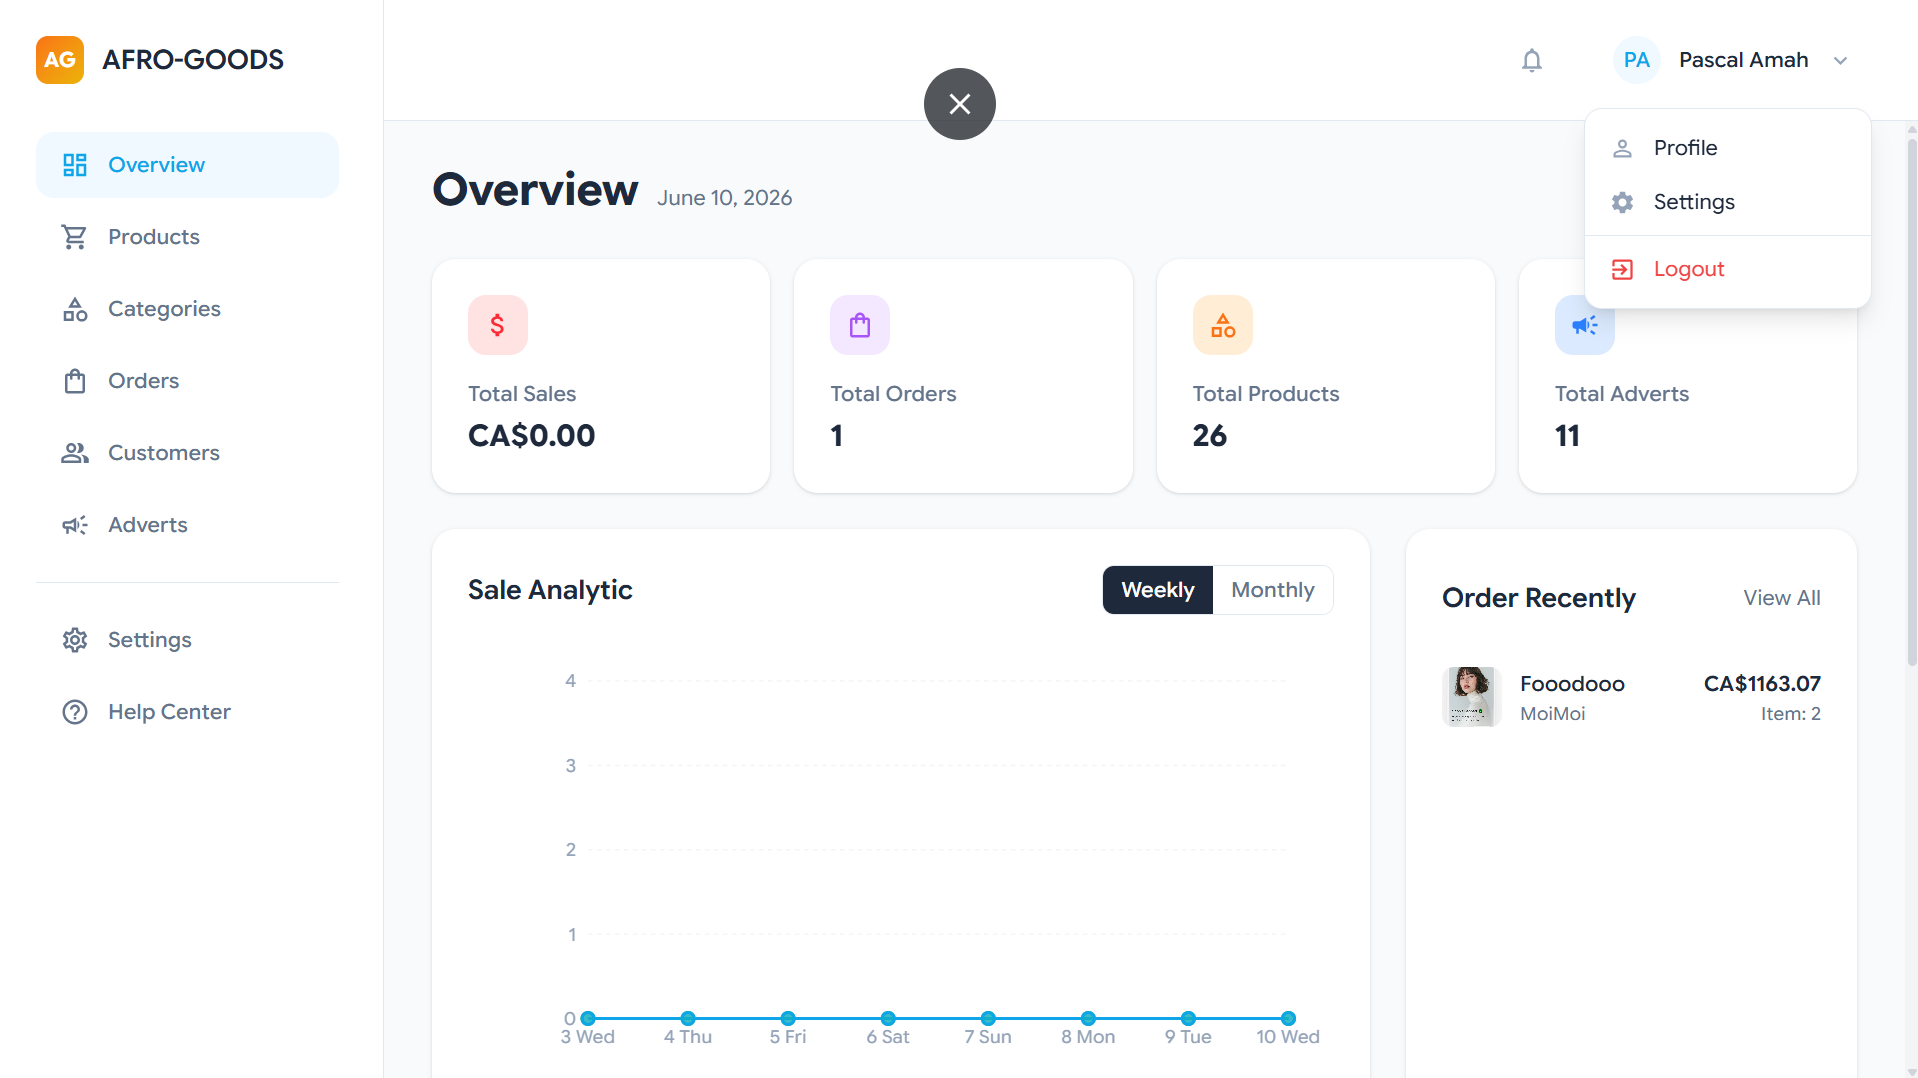
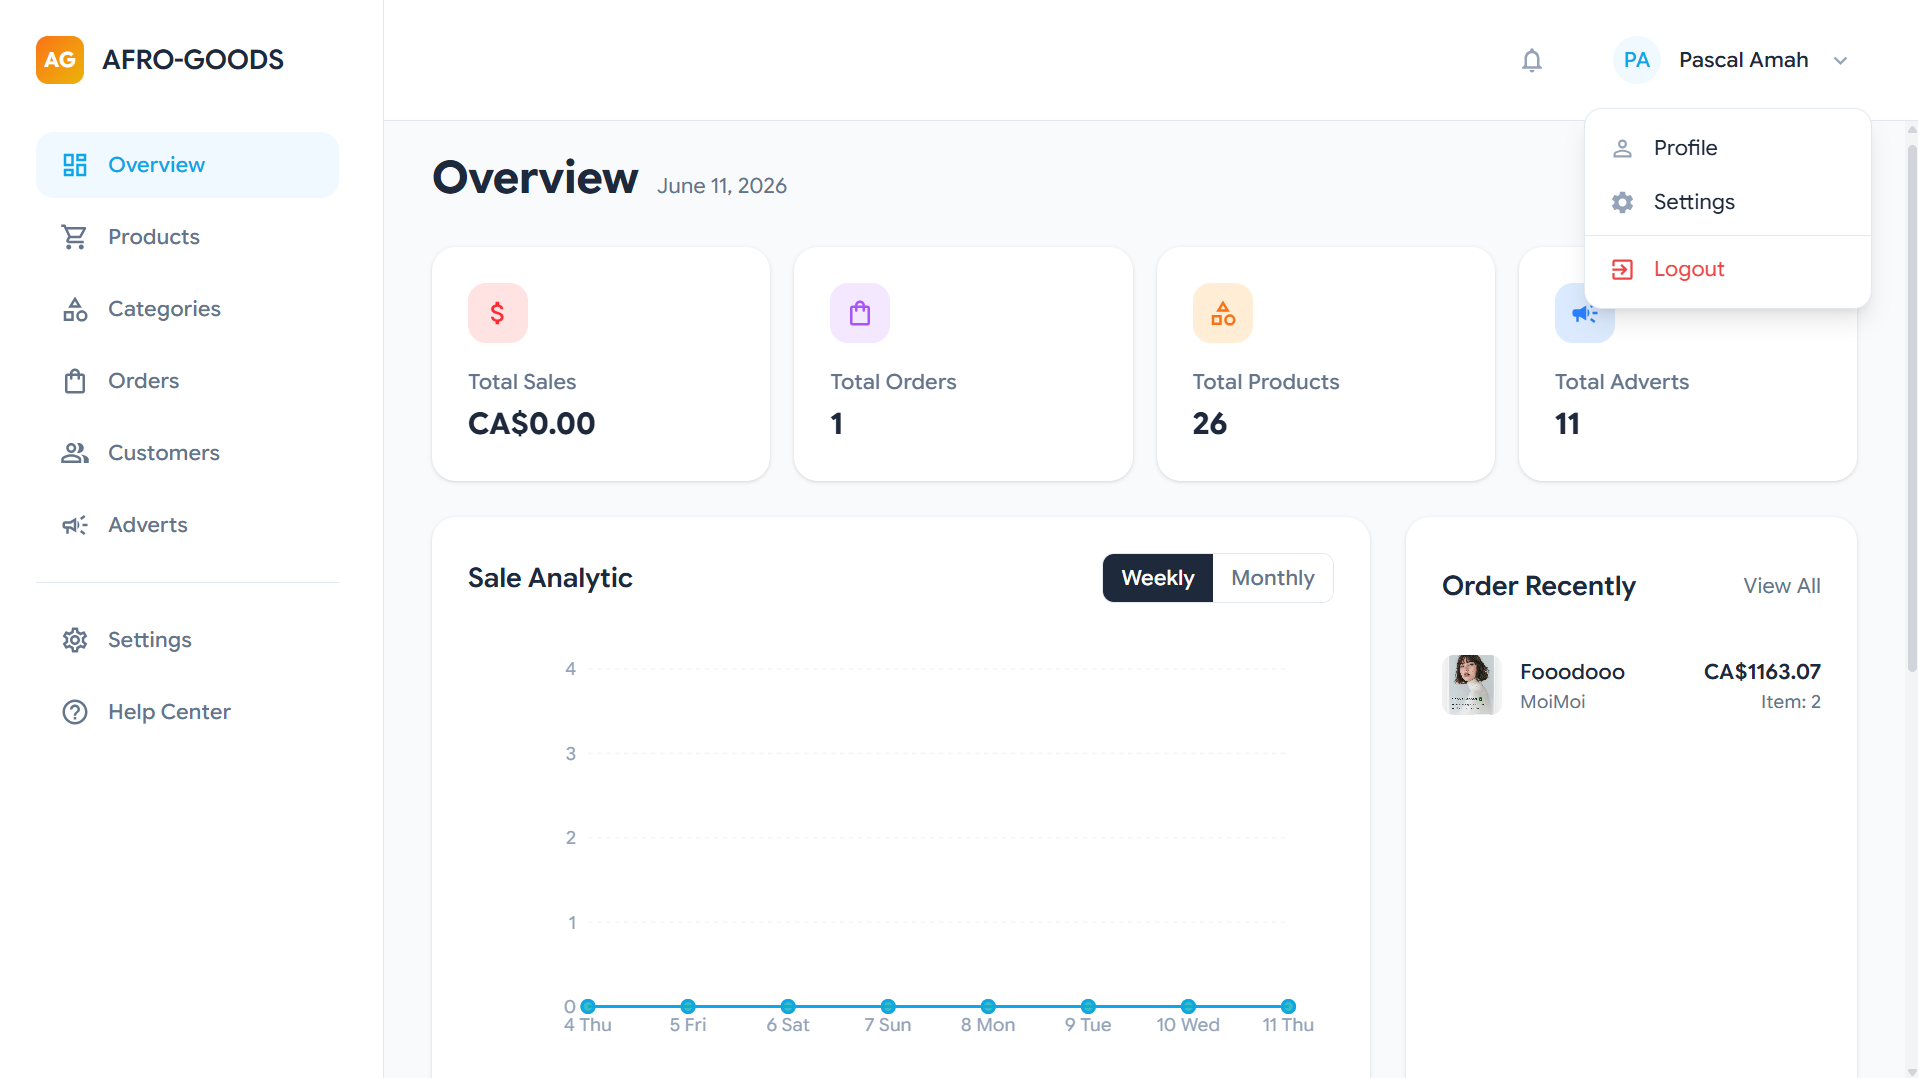
portfolio update

diff --git a/src/styles/pages/home.css b/src/styles/pages/home.css
@@ -440,7 +440,7 @@
     line-height: 1.04;
   }
   .hero-desc {
-    max-width: 20rem;
+    max-width: 100%;
   }
 
   .featured-card {

diff --git a/src/content/projects/barqpix.md b/src/content/projects/barqpix.md
@@ -1,22 +1,26 @@
 ---
 title: "BarqPix"
-description: "A real-time event media platform with QR-based access. Designed backend services for media uploads, user access control, and event-based content isolation. Implemented scalable storage handling and asynchronous processing for uploads."
+description: "Real-time event media platform with QR-based access. Guests scan a code to join an isolated event gallery, upload photos, and browse the live feed — no app download required."
 pubDate: "2025-01-15"
 tags: ["Next.js", "Express.js", "Firebase", "AI"]
 githubUrl: "https://github.com/PascalAmah/BarqPix"
 liveUrl: "https://barq-pix.vercel.app"
 status: "completed"
-homeOrder: 6
-# heroImage: ./images/barqpix-cover.jpg
-# uiImages:
-#   - ./images/barqpix-ui-1.jpg
-#   - ./images/barqpix-ui-2.jpg
-#   - ./images/barqpix-ui-3.jpg
-#   - ./images/barqpix-ui-4.jpg
+homeOrder: 3
+problem: "At events, photos end up scattered across personal camera rolls and random group chats — there's no shared, real-time feed that everyone at the event can contribute to and browse. Existing solutions either require app downloads, create privacy risks by mixing events, or can't handle the burst upload traffic that comes with a room full of guests shooting at the same time."
+whatWasBuilt: "Led the backend architecture on Express.js, designing the event isolation model so every event gets its own scoped content environment — no cross-event data leakage. Built the media upload pipeline on Firebase Storage with asynchronous processing to handle concurrent uploads without blocking the user experience. Integrated an AI layer for automatic image tagging and content moderation. QR codes are generated per event and act as the access token; scanning one puts guests directly into the right gallery. The Next.js frontend delivers the live feed in real time using Firebase Realtime listeners."
+highlights:
+  - "QR-based event access — scan to join, no account or app install required"
+  - "Per-event content isolation — galleries are fully scoped, no cross-contamination between events"
+  - "Asynchronous Firebase Storage pipeline handles burst uploads without degrading the live feed"
+  - "AI-powered image tagging and automatic content moderation"
+  - "Real-time gallery feed updates via Firebase Realtime Database listeners"
+  - "Express.js backend handles custom business logic, access control, and event lifecycle management"
+challenges: "The hardest problem was handling simultaneous burst uploads from many guests without stalling the live feed. Processing images synchronously would have made the gallery feel sluggish right when the energy at an event peaks. The fix was fully decoupling upload ingestion from processing — uploads land in Firebase Storage immediately and trigger async functions for AI tagging and thumbnail generation, keeping the gallery feed responsive regardless of upload queue depth."
+heroImage: "./images/barqpix/barqpix-hero.png"
+uiImages:
+   - "./images/barqpix/barqpix-home.png"
+   - "./images/barqpix/barqpix-gallery.png"
+   - "./images/barqpix/barqpix-upload.png"
+   - "./images/barqpix/barqpix-qr.png"
 ---
-
-BarqPix is a real-time event media platform that revolutionizes how photos are shared at events using QR-based access.
-
-The platform provides an isolated environment for each event, ensuring that media is only accessible to authorized attendees. I led the backend development, focusing on robust and scalable media uploads using Firebase, along with an Express.js server to handle custom business logic and AI processing.
-
-By leveraging asynchronous processing, we achieved high throughput for image uploads without blocking the user experience.

diff --git a/src/content/projects/syncra.md b/src/content/projects/syncra.md
@@ -8,12 +8,21 @@ liveUrl: "https://syncra-six.vercel.app"
 status: "completed"
 homeFeatured: true
 homeOrder: 4
+problem: "Building offline-capable apps means solving a cluster of hard problems at once — queuing mutations while offline, replaying them in the right order when connectivity returns, and handling conflicts when two clients modified the same record independently. Most teams either ship without offline support or spend weeks writing brittle sync logic from scratch. There was no lightweight, drop-in package that handled all three reliably."
+whatWasBuilt: "Published Syncra as an npm package that gives any app a full offline-first sync layer with a single install. The core handles operation queuing with persistent local storage, ordered replay on reconnect, and a configurable conflict resolution strategy (last-write-wins by default, with hooks for custom logic). The NestJS backend API brokers sync sessions and stores the authoritative state, while Redis manages the operation queue for durability and throughput. The package ships alongside a public landing page and a developer dashboard where teams can monitor queue depth, active sync sessions, conflict resolution history, and error rates in real time."
+highlights:
+  - "Offline operation queuing with persistent local storage — mutations survive page reloads and app restarts"
+  - "Ordered replay on reconnect with deduplication to prevent double-applying operations"
+  - "Configurable conflict resolution — last-write-wins out of the box, fully overridable with custom resolver hooks"
+  - "NestJS backend API for sync session brokering and authoritative state management"
+  - "Redis-backed operation queue for durable, high-throughput processing"
+  - "Developer dashboard with real-time visibility into queue depth, sync sessions, conflicts, and errors"
+  - "Published on npm — installable in any Node.js or browser-based project"
+challenges: "Conflict resolution is genuinely hard to get right generically. Last-write-wins works for most cases but silently discards changes in ways that surprise developers. The challenge was designing an API that made the default safe and predictable, while still giving teams full control when they need it — without forcing them to understand the internals. The solution was a layered resolver system: a sensible default that handles 90% of cases, a simple override hook for domain-specific rules, and detailed conflict events surfaced to the dashboard so nothing gets dropped silently."
+heroImage: "./images/syncra/syncra-hero.png"
+# uiImages:
+#   - "./images/syncra/syncra-landing.png"
+#   - "./images/syncra/syncra-dashboard.png"
+#   - "./images/syncra/syncra-queue.png"
+#   - "./images/syncra/syncra-conflicts.png"
 ---
-
-Syncra is an npm package that provides offline-first sync logic for modern applications.
-
-It handles the hardest parts of offline-capable apps: data synchronization when connectivity is restored, conflict resolution when multiple clients modify the same data, and transparent offline state management so users never hit a wall without internet.
-
-The package ships alongside a landing page and a developer dashboard for monitoring sync activity, queue depth, and conflict resolution history. Built with NestJS for the backend API and Redis for queue management.
-
-Available on npm — designed for teams who want offline-first behaviour without writing the sync layer from scratch.

diff --git a/src/content/projects/edupulse.md b/src/content/projects/edupulse.md
@@ -1,15 +1,25 @@
 ---
 title: "EduPulse"
-description: "Smart microlearning platform with personalized bite-sized lessons & quizzes based on user behavior, mood, and goals. Revolutionizing education through adaptive learning."
+description: "Smart microlearning platform with personalized bite-sized lessons and quizzes based on user behavior, mood, and goals. Revolutionizing education through adaptive learning."
 pubDate: "2025-02-10"
 tags: ["React", "Node.js", "AI/ML", "MongoDB"]
 githubUrl: "https://github.com/PascalAmah/edupulse"
 status: "in-progress"
-homeOrder: 3
+homeOrder: 6
+problem: "Traditional e-learning platforms dump full courses on learners and expect them to self-direct — but most people don't have 45 minutes of focused attention on demand. Short bursts work better, but generic microlearning apps serve the same content to everyone regardless of how they're engaging, what they already know, or when they're most receptive. The result is churn, low completion rates, and content that doesn't stick."
+whatWasBuilt: "Building EduPulse as an adaptive microlearning platform that tailors content at the session level, not just at onboarding. The backend is Node.js with MongoDB, storing detailed behavioral signals — session duration, answer patterns, time-of-day engagement, and quiz performance trends. An AI/ML layer processes these signals to select the right lesson format, difficulty, and topic for each session. The React frontend is designed to feel more like a focused daily habit than an LMS — short sessions, immediate feedback, and a progress model that rewards consistency over volume."
+highlights:
+  - "Adaptive content selection driven by real-time behavioral signals — not just a static learning path"
+  - "Session-level personalization accounts for mood indicators, time of day, and recent performance trends"
+  - "Bite-sized lesson and quiz format designed for 5–10 minute focused sessions"
+  - "Node.js backend with MongoDB stores granular engagement data to feed the recommendation model"
+  - "AI/ML model continuously refines difficulty and topic selection based on cumulative user history"
+  - "React frontend optimized for low-friction daily habit formation"
+challenges: "The core ML challenge is cold-start — new users have no behavioral history, so the model has nothing to personalize on. The approach is a structured onboarding phase that collects goals, prior knowledge signals, and preferred session length, then uses collaborative filtering to bootstrap recommendations from similar user profiles until enough individual data accumulates to switch to personalized predictions."
+# heroImage: "./images/edupulse/edupulse-hero.png"
+# uiImages:
+#   - "./images/edupulse/edupulse-home.png"
+#   - "./images/edupulse/edupulse-lesson.png"
+#   - "./images/edupulse/edupulse-quiz.png"
+#   - "./images/edupulse/edupulse-dashboard.png"
 ---
-
-EduPulse is an adaptive microlearning platform currently in development.
-
-It uses AI/ML to tailor bite-sized educational content and quizzes to a user's behavior, mood, and learning goals. The stack includes a Node.js backend with MongoDB for flexible data storage, and a React frontend to deliver a smooth and engaging user experience.
-
-The ultimate goal is to revolutionize personal education through highly adaptive learning paths.

diff --git a/src/content/projects/breevs.md b/src/content/projects/breevs.md
@@ -7,10 +7,20 @@ githubUrl: "https://github.com/PascalAmah/Breevs"
 liveUrl: "https://breevs.pxxl.click"
 status: "completed"
 homeOrder: 5
+problem: "Online games with real money stakes require trust — but trust in a centralized server is fragile. The house can change the rules, manipulate outcomes, or withhold winnings without any recourse for players. There was no elimination game where the rules, entry fees, and prize payouts were fully transparent, immutable, and enforced by code rather than a company."
+whatWasBuilt: "Built Breevs as a fully on-chain elimination game on the Stacks Blockchain. All core game mechanics — player entry, round progression, elimination logic, and prize pool distribution — are encoded in Clarity smart contracts, making every rule publicly verifiable and tamper-proof. The Next.js frontend connects directly to the Stacks network via the Stacks.js SDK, so players interact with contracts from their browser wallet without any intermediary. A Node.js backend handles off-chain coordination tasks — game lobby management, notification triggers, and state caching — while keeping financial settlement entirely on-chain."
+highlights:
+  - "Core game logic fully encoded in Clarity smart contracts — entry, rounds, eliminations, and payouts all on-chain"
+  - "Transparent and tamper-proof rules — any player can read the contract and verify the mechanics"
+  - "Browser wallet integration via Stacks.js SDK — no custodial accounts, players hold their own keys"
+  - "Prize pool accumulates from entry fees and distributes automatically to the winner on contract execution"
+  - "Node.js backend manages off-chain coordination (lobby state, notifications) without touching financial logic"
+  - "Next.js frontend with real-time round and elimination status updates"
+challenges: "The toughest part was designing the contract so that prize distribution is safe even in edge cases — partial round completion, a player disconnecting mid-game, or a transaction failing at the wrong moment. Clarity's decidability constraint (no recursion, bounded execution) forced a disciplined approach to game state transitions. I had to model every state explicitly and ensure the contract could always reach a terminal state without getting stuck or locking funds."
+heroImage: "./images/breevs/breevs-hero.png"
+uiImages:
+   - "./images/breevs/breevs-home.png"
+   - "./images/breevs/breevs-game.png"
+   - "./images/breevs/breevs-rankings.png"
+   - "./images/breevs/breevs-wallet.png"
 ---
-
-Breevs is a decentralized elimination game running on the Stacks Blockchain.
-
-Players enter rounds, compete, and get eliminated until one winner claims the prize pool. All game logic — entry fees, round progression, and prize distribution — is encoded in Clarity smart contracts, making the rules fully transparent and tamper-proof on-chain.
-
-The frontend is built with Next.js and connects directly to the Stacks network via the Stacks.js SDK. The backend handles off-chain coordination and game state, while the blockchain handles trust and settlement. A project that pushed me deep into smart contract architecture and the intersection of web3 UX and traditional web development.

diff --git a/src/content/projects/foodneural.md b/src/content/projects/foodneural.md
@@ -7,10 +7,20 @@ githubUrl: "https://github.com/PascalAmah/FoodNeural"
 liveUrl: "https://foodneuralapp.vercel.app"
 status: "completed"
 homeOrder: 2
+problem: "Most people have no intuition for the environmental cost of what they eat. The data exists — lifecycle analyses, emissions databases, water footprint studies — but it's buried in research papers and agricultural reports that aren't built for consumers. There was no accessible tool where someone could look up a food product and get an immediate, comparable picture of its environmental impact across multiple dimensions."
+whatWasBuilt: "Built FoodNeural as a full-stack ML application that takes a food product as input and returns a breakdown of its environmental footprint across three metrics: greenhouse gas emissions (kg CO₂ equivalent), water usage (litres), and land use (m²). The Flask backend serves a scikit-learn model trained on a large food product dataset processed with pandas, covering thousands of products across all major food categories. A Transformers-based NLP component handles natural language product queries — users can type a product name in plain text rather than needing exact database matches. The React frontend presents results visually with comparative context so users can see how a product ranks against category averages."
+highlights:
+  - "ML model assesses three impact dimensions per product: greenhouse gas emissions, water usage, and land use"
+  - "Transformers-based NLP handles free-text product queries — no exact name matching required"
+  - "scikit-learn model trained on a large multi-category food dataset processed with pandas"
+  - "Comparative output — results shown against category averages, not just in absolute values"
+  - "Flask API backend with clean separation between data processing pipeline and serving layer"
+  - "Responsive React frontend with visual impact breakdowns and sustainability score"
+challenges: "Training data coverage was uneven — processed and packaged food products had rich lifecycle data while regional and artisanal products were sparsely represented. Sparse coverage would have made the model confidently wrong for less common inputs. The solution was a confidence scoring layer that flags low-coverage predictions and falls back to category-level estimates with explicit uncertainty communication in the UI, so users aren't misled by extrapolated outputs."
+heroImage: "./images/foodneural/foodneural-hero.png"
+uiImages:
+   - "./images/foodneural/foodneural-home.png"
+   - "./images/foodneural/foodneural-results.png"
+   - "./images/foodneural/foodneural-compare.png"
+#   - "./images/foodneural/foodneural-breakdown.png"
 ---
-
-FoodNeural leverages machine learning to assess the environmental footprint of our food choices.
-
-By processing large datasets of food products, the AI model evaluates key metrics such as greenhouse gas emissions, water usage, and land impact. The backend is powered by a Flask API that integrates with `scikit-learn` and `pandas` for data analysis, while the frontend is a responsive React application.
-
-This project aims to empower users to make informed, sustainable dietary decisions.
